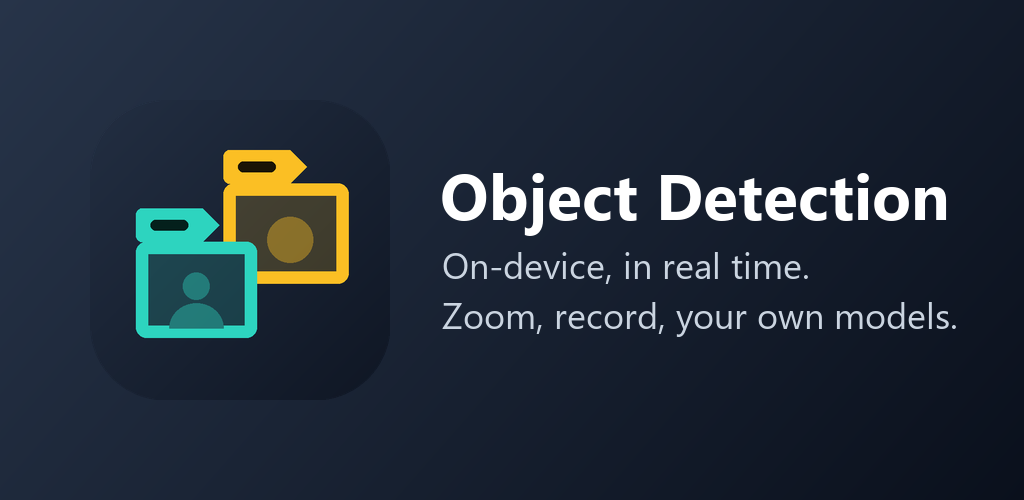
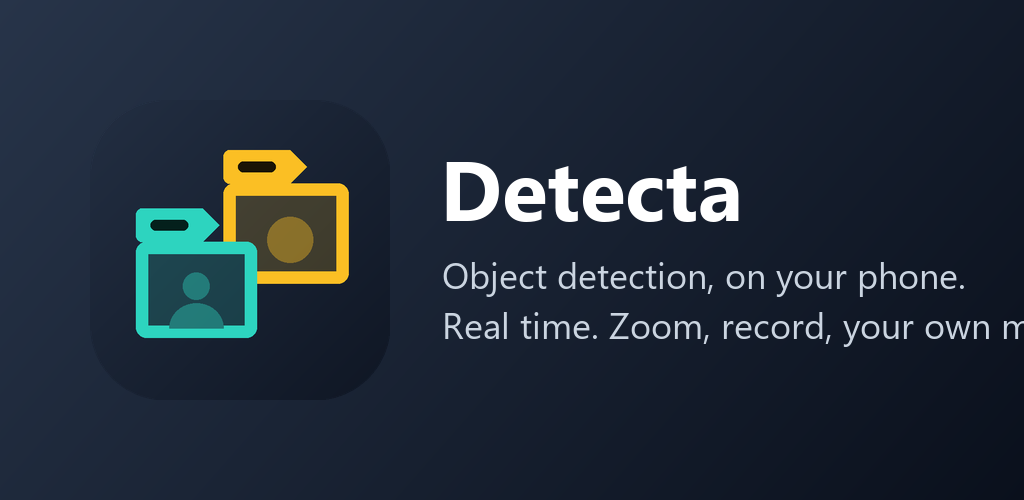
Rename the app to Detecta; Play title Detecta: Object Detection

Changed region(s): [[0.4062, 0.51, 1.0, 0.69], [0.4062, 0.3, 0.9375, 0.48]]

diff --git a/docs/privacy.html b/docs/privacy.html
@@ -3,7 +3,7 @@
 <head>
 <meta charset="utf-8">
 <meta name="viewport" content="width=device-width, initial-scale=1">
-<title>Privacy policy - Object Detection</title>
+<title>Privacy policy - Detecta</title>
 <style>
   body { font-family: system-ui, sans-serif; max-width: 42rem; margin: 2rem auto; padding: 0 1rem; line-height: 1.55; color: #1f2937; }
   h1 { font-size: 1.6rem; } h2 { font-size: 1.15rem; margin-top: 1.8rem; }
@@ -12,9 +12,9 @@
 </head>
 <body>
 <h1>Privacy policy</h1>
-<p class="date">Object Detection for Android (package <code>es.jrg.objectdetection</code>). Last updated: 13 October 2026.</p>
+<p class="date">Detecta, object detection for Android (package <code>es.jrg.objectdetection</code>). Last updated: 13 October 2026.</p>
 
-<p>Object Detection recognises objects in the image from your phone's camera, entirely on your phone.
+<p>Detecta recognises objects in the image from your phone's camera, entirely on your phone.
 The short version: <strong>the app does not collect, store on a server, share or sell any personal data.</strong></p>
 
 <h2>Camera</h2>

diff --git a/tools/make_icon.py b/tools/make_icon.py
@@ -172,8 +172,8 @@ if len(sys.argv) > 3:
             try: return ImageFont.truetype(p, size)
             except OSError: pass
         return ImageFont.load_default()
-    dr.text((440, 150), "Object Detection", font=font("segoeuib.ttf", 64), fill=(255, 255, 255))
-    dr.text((442, 240), "On-device, in real time.", font=font("segoeui.ttf", 36), fill=(203, 213, 225))
-    dr.text((442, 290), "Zoom, record, your own models.", font=font("segoeui.ttf", 36), fill=(203, 213, 225))
+    dr.text((440, 130), "Detecta", font=font("segoeuib.ttf", 84), fill=(255, 255, 255))
+    dr.text((442, 250), "Object detection, on your phone.", font=font("segoeui.ttf", 36), fill=(203, 213, 225))
+    dr.text((442, 300), "Real time. Zoom, record, your own models.", font=font("segoeui.ttf", 36), fill=(203, 213, 225))
     feat.convert("RGB").save(f"{out}/feature-graphic-1024x500.png")
     print("wrote Play graphics to", out)

diff --git a/store/listing.md b/store/listing.md
@@ -2,18 +2,20 @@
 
 Package: `es.jrg.objectdetection`. Privacy policy: https://jgomezsa.github.io/android_ObjectDetection/privacy.html
 
-The app name is a placeholder ("Object Detection" is very common on Play; pick something more distinctive and change `app_name` in
-`app/src/main/res/values/strings.xml`, the feature graphic text in `tools/make_icon.py`, and this file).
+The app is called **Detecta** (launcher label: `app_name` in `app/src/main/res/values/strings.xml`). The Play *title* is set in the Console and may add the words people search for, so
+the app is found both by name and by "object detection". Keep it descriptive, not a list of keywords (Play's metadata policy rejects keyword stuffing).
 
 ## Store listing (English, default language)
 
-**App name** (max 30 characters): Object Detection
+**App name / title** (max 30 characters): Detecta: Object Detection
+
+(Alternatives if you prefer: "Detecta - Object Detector", "Detecta: AI Object Detection".)
 
 **Short description** (max 80): Real-time object detection with your camera, on your phone. No cloud.
 
 **Full description** (max 4000):
 
-Point your camera at the world and see what the app recognises, live, with a box and a name around each object. Everything runs on your phone: nothing is uploaded, no account is needed, and there are no ads.
+Detecta is a real-time object detection app: point your camera at the world and see what it recognises, live, with a box and a name around each object. Everything runs on your phone: nothing is uploaded, no account is needed, and there are no ads.
 
 - Real-time detection of 80 everyday kinds of objects: people, vehicles, animals, furniture, food and more.
 - Uses your phone's GPU when it can, and falls back to the CPU when it cannot.

diff --git a/README.md b/README.md
@@ -1,4 +1,4 @@
-# Android Object Detection (YOLOX)
+# Detecta: Android object detection (YOLOX)
 
 Point your phone's camera at the world and the app draws a box and a label around every object it recognises,
 live, using an AI model that runs entirely **on the phone**. No server is needed and no image ever leaves the device;
@@ -72,7 +72,7 @@ You can also open the folder in Android Studio and press Run.
 
 ## Using the app
 
-1. Open **Object Detection** and allow the **Camera** permission.
+1. Open **Detecta** and allow the **Camera** permission.
 2. Point the camera at objects. Each one gets a coloured box with its name and a confidence percentage.
 3. The number in the top-left corner is how long the last frame took to process, in milliseconds. The lower it is, the smoother the detection. The small graph to its left shows the same time for the last 50 frames.
 4. The top-right corner shows the model in use. **Tap its name** to open the model menu and switch to another model; your choice is remembered. Loading a model can take a few seconds
